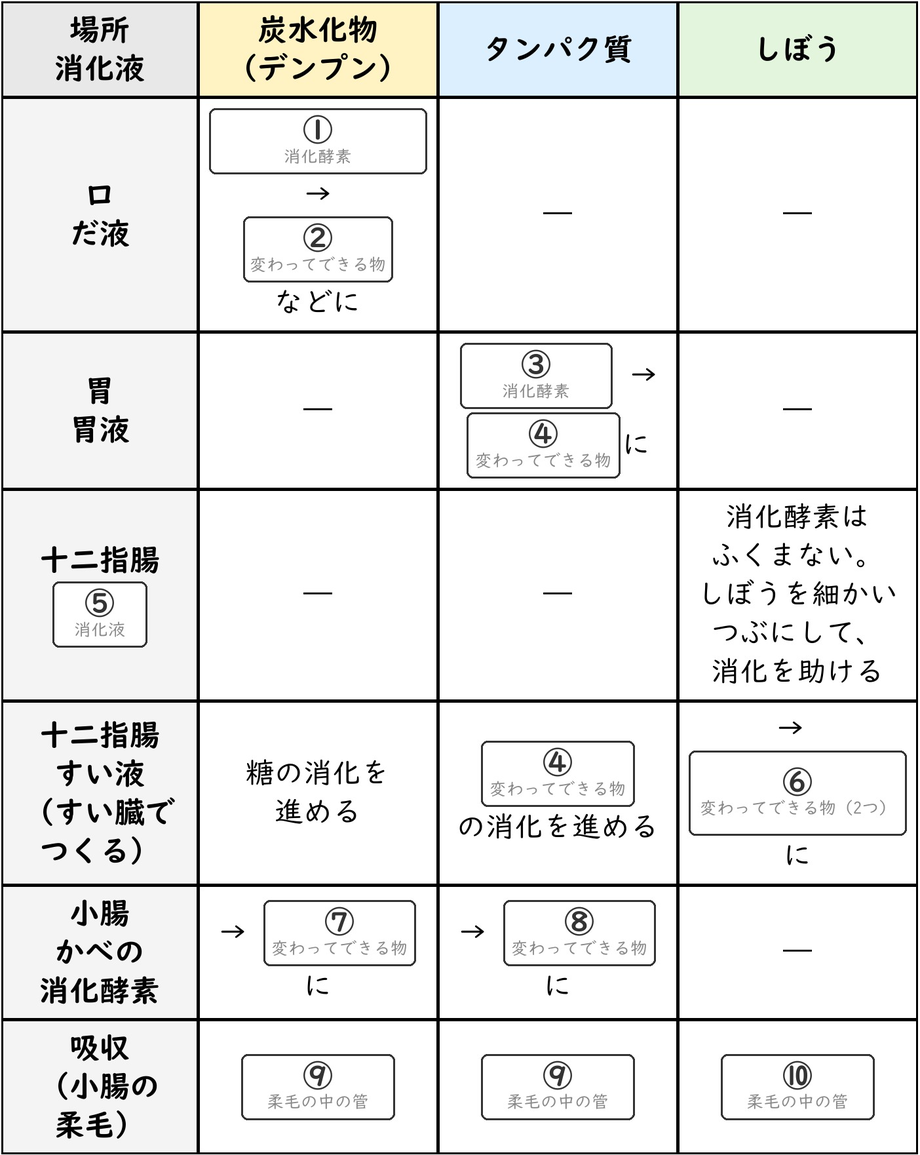
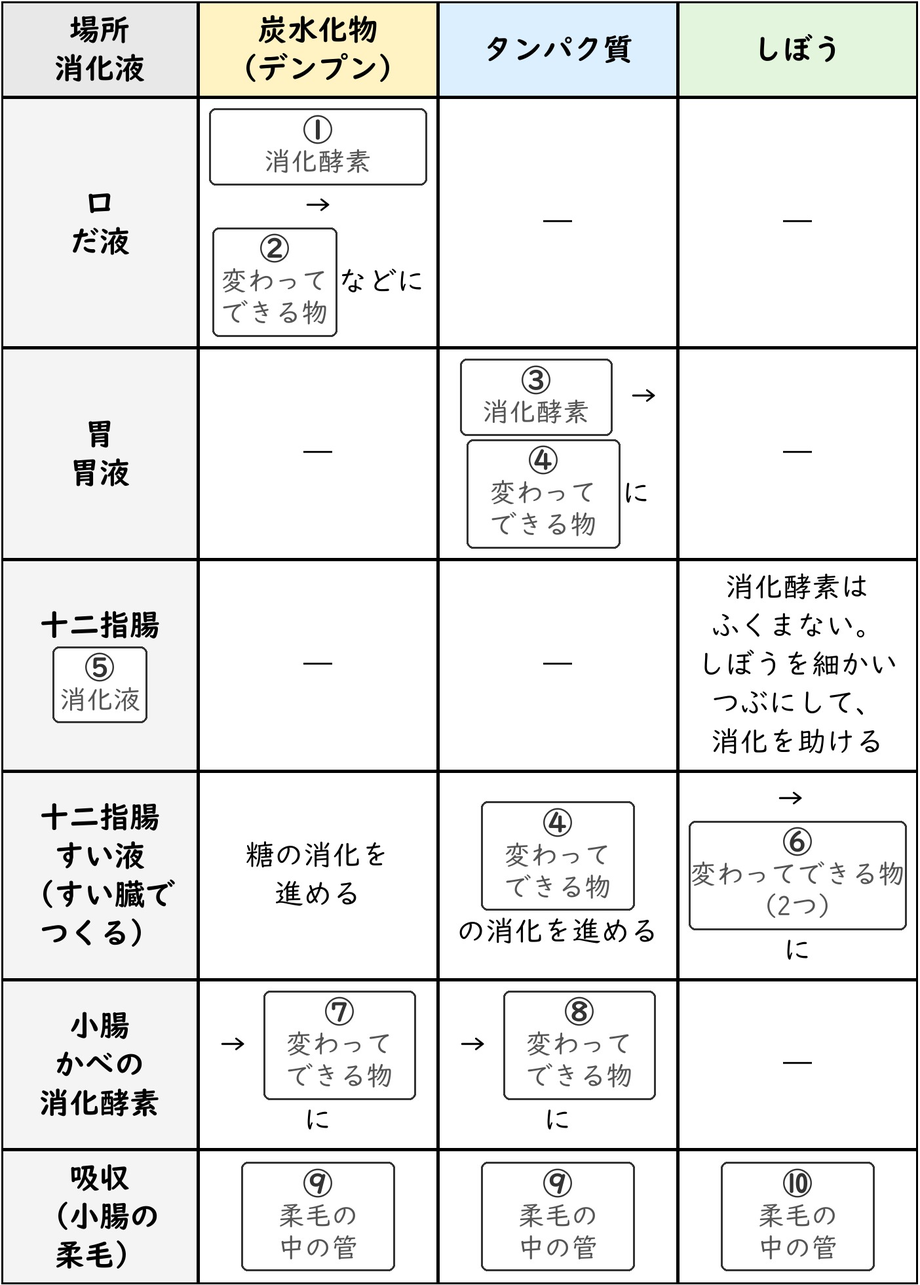
理科 第4回: 消化の表の画像を差し替え（ヒントを大きく・濃く）・IMG_SIZES 1404x1960
ユーザー「ヒントの文字が小さすぎます」への対応。data.js は変えていない。

diff --git a/index.html b/index.html
@@ -2469,7 +2469,7 @@ function startConnectTimeout(side){
 // images/内の各画像の実サイズ。<img>にwidth/height属性を設定することで、
 // 読み込み前でも正しい縦横比の分だけ表示スペースを確保でき、
 // 画像読み込み完了時のレイアウトのガタつき（＝それに伴うタップのすれ違い）を防ぐ。
-const IMG_SIZES = {"img_01.jpg":[581,620],"img_02.jpg":[627,579],"img_03.jpg":[714,417],"img_04.jpg":[514,483],"img_05.jpg":[644,532],"img_06.jpg":[463,429],"img_07.jpg":[1156,446],"img_08.jpg":[573,586],"img_09.jpg":[506,198],"img_10.jpg":[497,146],"img_11.jpg":[503,499],"img_12.jpg":[518,578],"img_13.jpg":[746,621],"img_14.jpg":[713,567],"img_15.jpg":[658,628],"img_16.png":[642,589],"img_17.png":[535,597],"img_18.png":[510,295],"img_19.png":[1399,307],"img_20.png":[448,714],"img_21.png":[648,595],"img_22.png":[244,234],"img_23.jpg":[346,355],"img_24.jpg":[209,263],"img_25.jpg":[228,244],"kai1_01.jpg":[374,356],"kai1_02.jpg":[348,339],"kai1_03.jpg":[492,339],"kai1_04.jpg":[352,340],"kai1_05.jpg":[357,340],"kai1_06.jpg":[261,340],"kai1_07.jpg":[461,340],"kai1_08.jpg":[444,340],"kai1_09.jpg":[357,340],"kai1_10.jpg":[601,340],"kai1_11.jpg":[635,340],"kai1_12.jpg":[2019,1084],"kai1_13.jpg":[516,490],"kai1_14.jpg":[560,254],"kai1_15.jpg":[595,324],"kai1_17.jpg":[2028,783],"kai1_18.jpg":[2019,1084],"kai1_20.jpg":[2019,1084],"kai1_21.jpg":[2019,1084],"kai1_22.jpg":[595,569],"kai1_23.jpg":[595,569],"kai1_24.jpg":[2019,1084],"kai1_25.jpg":[595,569],"kai1_26.jpg":[595,569],"kai1_27.jpg":[700,508],"kai1_28.jpg":[951,720],"kai1_29.jpg":[2240,1180],"kai1_30.jpg":[1181,1244],"kai2_01.jpg":[697,350],"kai2_02.jpg":[769,524],"kai2_03.jpg":[529,297],"kai2_04.jpg":[529,313],"kai2_05.jpg":[1216,2126],"kai3_01.jpg":[530,460],"kai3_02.jpg":[680,460],"kai3_03.jpg":[700,460],"kai3_04.jpg":[675,330],"kai3_05.jpg":[2408,1775],"kai3_06.jpg":[1988,1222],"kai3_07.jpg":[1189,2001],"kai4_01.jpg":[1189,1839],"kai5_01.jpg":[1189,1027],"kai5_02.jpg":[743,534],"kaki_r1_01.jpg":[761,180],"kaki_r1_02.jpg":[761,206],"kaki_r1_03.jpg":[796,180],"kaki_r1_04.jpg":[761,179],"kaki_r1_05.jpg":[796,206],"kaki_r1_06.jpg":[830,214],"kaki_r1_07.jpg":[890,624],"kaki_r1_08.jpg":[430,380],"kaki_r1_map01.jpg":[1170,1210],"kaki_r1_map02.jpg":[1170,1210],"kaki_r1_map03.jpg":[1170,1210],"kaki_r1_map04.jpg":[1170,1210],"kaki_r1_map05.jpg":[1170,1210],"kaki_r1_map06.jpg":[1170,1210],"kaki_r1_map07.jpg":[1170,1210],"kaki_r1_map08.jpg":[1170,1210],"kaki_r1_map09.jpg":[1170,1210],"kaki_r1_map10.jpg":[1170,1210],"kaki_r1_map11.jpg":[1170,1210],"kaki_r1_map12.jpg":[1170,1210],"kaki_r1_map13.jpg":[1170,1210],"kaki_r1_map14.jpg":[1170,1210],"kaki_r1_map15.jpg":[1170,1210],"kaki_r2_graph01.jpg":[1215,1340],"kaki_r2_graph02.jpg":[1295,850],"kaki_r2_graph03.jpg":[1265,680],"kaki_r2_graph04.jpg":[1225,320],"kaki_r2_graph06.jpg":[1045,560],"kaki_r2_graph07.jpg":[700,870],"kaki_r2_map01.jpg":[1140,1090],"kaki_r2_map05.jpg":[1035,900],"kaki_r2_map07.jpg":[2315,1650],"kaki_r2_map08.jpg":[2315,1650],"kaki_r2_map09.jpg":[2315,1650],"kaki_r2_map10.jpg":[2315,1650],"kaki_r2_map11.jpg":[2315,1650],"kaki_r2_map12.jpg":[2315,1650],"kaki_r2_map13.jpg":[2315,1650],"kaki_r2_map14.jpg":[2315,1650],"kaki_r2_map15.jpg":[2315,1650],"kaki_r2_map16.jpg":[2315,1650],"kaki_r2_map17.jpg":[2315,1650],"kaki_r2_map18.jpg":[2315,1650],"kaki_r2_map19.jpg":[2315,1650],"kaki_r3_graph01.jpg":[1015,580],"kaki_r3_house01.jpg":[505,355],"kaki_r3_map01.jpg":[2415,3414],"kaki_r3_map02.jpg":[2415,3414],"kaki_r3_map03.jpg":[2415,3414],"kaki_r3_map04.jpg":[2415,3414],"kaki_r3_map05.jpg":[2415,3414],"kaki_r3_map06.jpg":[2415,3414],"kaki_r3_map07.jpg":[2415,3414],"kaki_r3_map08.jpg":[2415,3414],"kaki_r3_map09.jpg":[2415,3414],"kaki_r3_map10.jpg":[2415,3414],"kaki_r3_map11.jpg":[2415,3414],"kaki_r3_map12.jpg":[2415,3414],"kaki_r3_map13.jpg":[2415,3414],"kaki_r3_map14.jpg":[2415,3414],"kaki_r3_map15.jpg":[2415,3414],"kaki_r3_map16.jpg":[2415,3414],"kaki_r3_map17.jpg":[2415,3414],"kaki_r3_map18.jpg":[2415,3414],"kaki_r3_map19.jpg":[2415,3414],"kaki_r3_map20.jpg":[2415,3414],"kaki_r3_map21.jpg":[2415,3414],"kaki_r3_map22.jpg":[2415,3414],"kaki_r3_map23.jpg":[2415,3417],"kaki_r3_map24.jpg":[2415,3417],"kaki_r3_map25.jpg":[2415,3417],"kaki_r3_map26.jpg":[2415,3417],"kaki_r3_map27.jpg":[2415,3417],"kaki_r3_map28.jpg":[2415,3417],"kaki_r3_map29.jpg":[2415,3417],"kaki_r3_map30.jpg":[2415,3417],"kaki_r3_map31.jpg":[2415,3417],"kaki_r3_map32.jpg":[2415,3417],"kaki_r3_map33.jpg":[2415,3417],"kaki_r3_map34.jpg":[2415,3417],"kaki_r3_map35.jpg":[2415,3417],"kaki_r3_map36.jpg":[2415,3417],"kaki_r3_map37.jpg":[1265,910],"kaki_r3_shapes.jpg":[2315,480],"kaki_r4_graph01.jpg":[910,300],"kaki_r4_graph02.jpg":[760,200],"kaki_r4_map01.jpg":[1610,980],"kaki_r4_map02.jpg":[1610,1380],"kaki_r4_map03.jpg":[540,570],"kaki_r4_map04.jpg":[1480,1310],"kaki_r4_map05.jpg":[1480,1310],"kaki_r4_map06.jpg":[1480,1310],"kaki_r4_map07.jpg":[1480,1310],"kaki_r4_map08.jpg":[1480,1310],"kaki_r4_map09.jpg":[1480,1310],"kaki_r4_map10.jpg":[1480,1310],"kaki_r4_map11.jpg":[1480,1310],"kaki_r4_map12.jpg":[1480,1310],"kaki_r4_map13.jpg":[1480,1310],"kaki_r4_map14.jpg":[1480,1310],"kaki_r4_map15.jpg":[1480,1310],"kaki_r4_map16.jpg":[1480,1310],"kaki_r4_map17.jpg":[1480,1310],"kaki_r4_map18.jpg":[1480,1310],"kaki_r4_map19.jpg":[1480,1310],"kaki_r4_map20.jpg":[1480,1310],"kaki_r4_map21.jpg":[1480,1310],"kaki_r4_map22.jpg":[1480,1310],"kaki_r4_map23.jpg":[1480,1310],"kaki_r4_map24.jpg":[1480,1310],"kaki_r4_map25.jpg":[1630,1440],"kaki_r4_map26.jpg":[1630,1440],"kaki_r4_map27.jpg":[1630,1440],"kaki_r4_map28.jpg":[1630,1440],"kaki_r4_map29.jpg":[1630,1440],"kaki_r4_map30.jpg":[1630,1440],"kaki_r4_map31.jpg":[1630,1440],"kaki_r4_map32.jpg":[1630,1440],"kaki_r4_map33.jpg":[1630,1440],"kaki_r4_map34.jpg":[1630,1440],"kaki_r4_map35.jpg":[1630,1440],"kaki_r4_map36.jpg":[1630,1440],"kaki_r4_map37.jpg":[1630,1440],"kaki_r4_map38.jpg":[1630,1440],"kaki_r4_map39.jpg":[1630,1440],"kaki_r4_map40.jpg":[1630,1440],"kaki_r4_map41.jpg":[1630,1440],"kaki_r4_shapes01.jpg":[1470,520],"kaki_r4_shapes02.jpg":[1970,870],"kaki_r5_graph02.jpg":[610,665],"kaki_r5_graph05.jpg":[2105,343],"kaki_r5_map01.jpg":[1540,1550],"kaki_r5_map02.jpg":[1540,1550],"kaki_r5_map03.jpg":[1540,1550],"kaki_r5_map04.jpg":[1540,1550],"kaki_r5_map05.jpg":[1540,1550],"kaki_r5_map06.jpg":[1540,1550],"kaki_r5_map07.jpg":[1540,1550],"kaki_r5_map08.jpg":[1540,1550],"kaki_r5_map09.jpg":[1540,1550],"kaki_r5_map10.jpg":[1540,1550],"kaki_r5_map11.jpg":[1540,1550],"kaki_r5_map12.jpg":[1540,1550],"kaki_r5_map13.jpg":[1540,1550],"kaki_r5_map14.jpg":[1540,1550],"kaki_r5_map15.jpg":[1540,1550],"kaki_r5_map16.jpg":[1540,1550],"kaki_r5_map17.jpg":[1540,1550],"kaki_r5_map18.jpg":[1540,1550],"kaki_r5_map19.jpg":[1700,1740],"kaki_r5_map20.jpg":[1700,1740],"kaki_r5_map21.jpg":[1700,1740],"kaki_r5_map22.jpg":[1700,1740],"kaki_r5_map23.jpg":[1700,1740],"kaki_r5_map24.jpg":[1700,1740],"kaki_r5_map25.jpg":[1700,1740],"kaki_r5_map26.jpg":[1700,1740],"kaki_r5_map27.jpg":[1700,1740],"kaki_r5_map28.jpg":[1700,1740],"kaki_r5_map29.jpg":[1700,1740],"kaki_r5_map30.jpg":[1700,1740],"kaki_r5_map31.jpg":[1700,1740],"kaki_r5_map32.jpg":[540,600],"kaki_r5_shapes02.jpg":[800,635],"kaki_r5_shapes03.jpg":[460,480],"kaki_r5_table01.jpg":[1370,390],"kaki_r5_table02.jpg":[1170,580],"kaki_r6_graph01.jpg":[850,1005],"kaki_r6_map01.jpg":[1500,1320],"kaki_r6_map02.jpg":[1500,1320],"kaki_r6_map03.jpg":[1500,1320],"kaki_r6_map04.jpg":[1500,1320],"kaki_r6_map05.jpg":[1500,1320],"kaki_r6_map06.jpg":[1500,1320],"kaki_r6_map07.jpg":[1500,1320],"kaki_r6_map08.jpg":[1500,1320],"kaki_r6_map09.jpg":[1500,1320],"kaki_r6_map10.jpg":[1500,1320],"kaki_r6_map11.jpg":[1500,1320],"kaki_r6_map12.jpg":[1500,1320],"kaki_r6_map13.jpg":[1500,1320],"kaki_r6_map14.jpg":[1500,1320],"kaki_r6_map15.jpg":[1500,1320],"kaki_r6_map16.jpg":[1500,1320],"kaki_r6_map17.jpg":[1500,1320],"kaki_r6_map18.jpg":[1500,1320],"kaki_r6_map19.jpg":[1500,1320],"kaki_r6_map20.jpg":[1500,1320],"kaki_r6_map21.jpg":[1500,1320],"kaki_r6_map22.jpg":[1500,1320],"kaki_r6_map23.jpg":[1500,1320],"kaki_r6_map24.jpg":[1500,1320],"kaki_r6_map25.jpg":[1500,1320],"kaki_r6_map26.jpg":[1500,1320],"kaki_r6_map27.jpg":[1500,1320],"kaki_r6_map28.jpg":[1420,1480],"kaki_r6_map29.jpg":[1420,1480],"kaki_r6_map30.jpg":[1420,1480],"kaki_r6_map31.jpg":[1420,1480],"kaki_r6_map32.jpg":[1420,1480],"kaki_r6_map33.jpg":[1420,1480],"kaki_r6_map34.jpg":[1420,1480],"kaki_r6_map35.jpg":[1420,1480],"kaki_r6_map36.jpg":[1420,1480],"kaki_r6_map37.jpg":[1420,1480],"kaki_r6_map38.jpg":[1420,1480],"kaki_r6_map39.jpg":[1420,1480],"kaki_r6_map40.jpg":[1420,1480],"kaki_r6_map41.jpg":[1420,1480],"kaki_r6_map42.jpg":[1420,1480],"kaki_r6_map43.jpg":[1420,1480],"kaki_r6_map44.jpg":[1420,1480],"kaki_r6_map45.jpg":[1420,1480],"kaki_r6_map46.jpg":[1420,1480],"kaki_r6_map47.jpg":[1420,1480],"kaki_r6_map48.jpg":[750,845],"kaki_r6_map49.jpg":[600,700],"kaki_r6_table01.jpg":[2010,445],"kaki_r7_graph02.jpg":[720,340],"kaki_r7_map01.jpg":[1840,1620],"kaki_r7_map02.jpg":[1840,1620],"kaki_r7_map03.jpg":[1840,1620],"kaki_r7_map04.jpg":[1840,1620],"kaki_r7_map05.jpg":[1840,1620],"kaki_r7_map06.jpg":[1840,1620],"kaki_r7_map07.jpg":[1840,1620],"kaki_r7_map08.jpg":[1840,1620],"kaki_r7_map09.jpg":[1840,1620],"kaki_r7_map10.jpg":[1840,1620],"kaki_r7_map11.jpg":[1840,1620],"kaki_r7_map12.jpg":[1840,1620],"kaki_r7_map13.jpg":[1840,1620],"kaki_r7_map14.jpg":[1840,1620],"kaki_r7_map15.jpg":[1840,1620],"kaki_r7_map16.jpg":[1840,1620],"kaki_r7_map17.jpg":[1840,1620],"kaki_r7_map18.jpg":[1500,1620],"kaki_r7_map19.jpg":[1500,1620],"kaki_r7_map20.jpg":[1500,1620],"kaki_r7_map21.jpg":[1500,1620],"kaki_r7_map22.jpg":[1500,1620],"kaki_r7_map23.jpg":[1500,1620],"kaki_r7_map24.jpg":[1500,1620],"kaki_r7_map25.jpg":[1500,1620],"kaki_r7_map26.jpg":[1500,1620],"kaki_r7_map27.jpg":[1500,1620],"kaki_r7_map28.jpg":[1500,1620],"kaki_r7_map29.jpg":[1500,1620],"kaki_r7_map30.jpg":[1500,1620],"kaki_r7_map31.jpg":[1500,1620],"kaki_r7_map32.jpg":[1500,1620],"kaki_r7_map33.jpg":[1500,1620],"kaki_r7_map34.jpg":[1500,1620],"kaki_r7_map35.jpg":[1500,1620],"kaki_r7_map36.jpg":[680,550],"kaki_r7_table01.jpg":[1100,420],"kaki_r7_table02.jpg":[1730,890],"kaki_r8_map01.jpg":[1220,1720],"kaki_r8_map02.jpg":[1220,1720],"kaki_r8_map03.jpg":[1220,1720],"kaki_r8_map04.jpg":[1220,1720],"kaki_r8_map05.jpg":[1220,1720],"kaki_r8_map06.jpg":[1220,1720],"kaki_r8_map07.jpg":[1220,1720],"kaki_r8_map08.jpg":[1220,1720],"kaki_r8_map09.jpg":[1220,1720],"kaki_r8_map10.jpg":[1220,1720],"kaki_r8_map11.jpg":[1220,1720],"kaki_r8_map12.jpg":[1220,1720],"kaki_r8_map13.jpg":[1220,1720],"kaki_r8_map14.jpg":[1220,1720],"kaki_r8_map15.jpg":[1220,1720],"kaki_r8_map16.jpg":[1220,1720],"kaki_r8_map17.jpg":[1220,1720],"kaki_r8_map18.jpg":[1220,1720],"kaki_r8_map19.jpg":[1220,1720],"kaki_r8_map20.jpg":[1220,1720],"kaki_r8_map21.jpg":[1220,1720],"kaki_r8_map22.jpg":[1220,1720],"kaki_r8_map23.jpg":[1220,1720],"kaki_r8_map24.jpg":[1220,1720],"kaki_r8_map25.jpg":[1220,1720],"kaki_r8_map26.jpg":[1220,1720],"kaki_r8_map27.jpg":[1220,1720],"kaki_r8_map28.jpg":[1220,1720],"kaki_r8_map29.jpg":[1220,1720],"kaki_r8_map30.jpg":[1220,1720],"kaki_r8_map31.jpg":[1220,1720],"kaki_r8_map32.jpg":[1220,1720],"kaki_r8_map33.jpg":[1220,1720],"kaki_r8_map34.jpg":[1220,1720],"kaki_r8_map35.jpg":[1870,1560],"kaki_r8_map36.jpg":[1870,1560],"kaki_r8_map37.jpg":[1870,1560],"kaki_r8_map38.jpg":[1870,1560],"kaki_r8_map39.jpg":[1870,1560],"kaki_r8_map40.jpg":[1870,1560],"kaki_r8_map41.jpg":[1870,1560],"kaki_r8_map42.jpg":[1870,1560],"kaki_r8_map43.jpg":[1870,1560],"kaki_r8_map44.jpg":[1870,1560],"kaki_r8_map45.jpg":[1870,1560],"kaki_r8_map46.jpg":[1870,1560],"kaki_r8_map47.jpg":[1870,1560],"kaki_r8_map48.jpg":[1870,1560],"kaki_r8_map49.jpg":[1870,1560],"kaki_r8_map50.jpg":[1870,1560],"kaki_r8_map51.jpg":[1870,1560],"kaki_r8_map52.jpg":[1870,1560],"kaki_r8_map53.jpg":[1870,1560],"kaki_r8_map54.jpg":[1870,1560],"kaki_r8_map55.jpg":[1870,1560],"kaki_r8_map56.jpg":[1870,1560],"kaki_r8_map57.jpg":[1870,1560],"kaki_r8_map58.jpg":[640,630],"r1_01.jpg":[2188,900],"r1_02.jpg":[1130,1070],"r1_03.jpg":[1660,400],"r1_04.jpg":[476,377],"r1_05.jpg":[1299,625],"r1_06.jpg":[950,360],"r2_01.jpg":[1400,673],"r2_02.jpg":[1400,365],"r2_03.jpg":[1400,346],"r2_04.jpg":[1400,997],"r2_05.jpg":[1400,692],"r2_06.jpg":[1392,600],"r2_07.jpg":[1392,623],"r2_08.jpg":[1392,701],"r2_09.jpg":[1419,823],"r2_10.jpg":[1419,823],"r2_11.jpg":[1419,823],"r2_12.jpg":[1419,956],"r2_13.jpg":[1419,956],"r2_14.jpg":[1419,956],"r2_15.jpg":[1400,946],"r2_16.jpg":[1400,946],"r2_17.jpg":[1400,946],"r2_18.jpg":[1400,883],"r2_19.jpg":[1400,883],"r2_20.jpg":[1427,1895],"r2_21.jpg":[1427,1895],"r2_22.jpg":[1427,1895],"r2_23.jpg":[1427,1895],"r2_24.jpg":[1427,1895],"r2_25.jpg":[1427,1895],"r2_26.jpg":[1410,1983],"r2_27.jpg":[1410,1983],"r2_28.jpg":[1410,1983],"r2_29.jpg":[1410,1983],"r2_30.jpg":[1419,946],"r2_31.jpg":[1419,946],"r2_32.jpg":[1419,946],"r2_33.jpg":[1419,946],"r2_34.jpg":[1419,538],"r2_35.jpg":[1419,538],"r2_36.jpg":[1419,538],"r2_37.jpg":[1419,538],"r2_38.jpg":[1419,546],"r2_39.jpg":[1401,913],"r2_40.jpg":[1401,1937],"r4_01.jpg":[880,1168],"r4_02.jpg":[1175,434],"r4_03.jpg":[759,1084],"r4_04.jpg":[1404,1762]};
+const IMG_SIZES = {"img_01.jpg":[581,620],"img_02.jpg":[627,579],"img_03.jpg":[714,417],"img_04.jpg":[514,483],"img_05.jpg":[644,532],"img_06.jpg":[463,429],"img_07.jpg":[1156,446],"img_08.jpg":[573,586],"img_09.jpg":[506,198],"img_10.jpg":[497,146],"img_11.jpg":[503,499],"img_12.jpg":[518,578],"img_13.jpg":[746,621],"img_14.jpg":[713,567],"img_15.jpg":[658,628],"img_16.png":[642,589],"img_17.png":[535,597],"img_18.png":[510,295],"img_19.png":[1399,307],"img_20.png":[448,714],"img_21.png":[648,595],"img_22.png":[244,234],"img_23.jpg":[346,355],"img_24.jpg":[209,263],"img_25.jpg":[228,244],"kai1_01.jpg":[374,356],"kai1_02.jpg":[348,339],"kai1_03.jpg":[492,339],"kai1_04.jpg":[352,340],"kai1_05.jpg":[357,340],"kai1_06.jpg":[261,340],"kai1_07.jpg":[461,340],"kai1_08.jpg":[444,340],"kai1_09.jpg":[357,340],"kai1_10.jpg":[601,340],"kai1_11.jpg":[635,340],"kai1_12.jpg":[2019,1084],"kai1_13.jpg":[516,490],"kai1_14.jpg":[560,254],"kai1_15.jpg":[595,324],"kai1_17.jpg":[2028,783],"kai1_18.jpg":[2019,1084],"kai1_20.jpg":[2019,1084],"kai1_21.jpg":[2019,1084],"kai1_22.jpg":[595,569],"kai1_23.jpg":[595,569],"kai1_24.jpg":[2019,1084],"kai1_25.jpg":[595,569],"kai1_26.jpg":[595,569],"kai1_27.jpg":[700,508],"kai1_28.jpg":[951,720],"kai1_29.jpg":[2240,1180],"kai1_30.jpg":[1181,1244],"kai2_01.jpg":[697,350],"kai2_02.jpg":[769,524],"kai2_03.jpg":[529,297],"kai2_04.jpg":[529,313],"kai2_05.jpg":[1216,2126],"kai3_01.jpg":[530,460],"kai3_02.jpg":[680,460],"kai3_03.jpg":[700,460],"kai3_04.jpg":[675,330],"kai3_05.jpg":[2408,1775],"kai3_06.jpg":[1988,1222],"kai3_07.jpg":[1189,2001],"kai4_01.jpg":[1189,1839],"kai5_01.jpg":[1189,1027],"kai5_02.jpg":[743,534],"kaki_r1_01.jpg":[761,180],"kaki_r1_02.jpg":[761,206],"kaki_r1_03.jpg":[796,180],"kaki_r1_04.jpg":[761,179],"kaki_r1_05.jpg":[796,206],"kaki_r1_06.jpg":[830,214],"kaki_r1_07.jpg":[890,624],"kaki_r1_08.jpg":[430,380],"kaki_r1_map01.jpg":[1170,1210],"kaki_r1_map02.jpg":[1170,1210],"kaki_r1_map03.jpg":[1170,1210],"kaki_r1_map04.jpg":[1170,1210],"kaki_r1_map05.jpg":[1170,1210],"kaki_r1_map06.jpg":[1170,1210],"kaki_r1_map07.jpg":[1170,1210],"kaki_r1_map08.jpg":[1170,1210],"kaki_r1_map09.jpg":[1170,1210],"kaki_r1_map10.jpg":[1170,1210],"kaki_r1_map11.jpg":[1170,1210],"kaki_r1_map12.jpg":[1170,1210],"kaki_r1_map13.jpg":[1170,1210],"kaki_r1_map14.jpg":[1170,1210],"kaki_r1_map15.jpg":[1170,1210],"kaki_r2_graph01.jpg":[1215,1340],"kaki_r2_graph02.jpg":[1295,850],"kaki_r2_graph03.jpg":[1265,680],"kaki_r2_graph04.jpg":[1225,320],"kaki_r2_graph06.jpg":[1045,560],"kaki_r2_graph07.jpg":[700,870],"kaki_r2_map01.jpg":[1140,1090],"kaki_r2_map05.jpg":[1035,900],"kaki_r2_map07.jpg":[2315,1650],"kaki_r2_map08.jpg":[2315,1650],"kaki_r2_map09.jpg":[2315,1650],"kaki_r2_map10.jpg":[2315,1650],"kaki_r2_map11.jpg":[2315,1650],"kaki_r2_map12.jpg":[2315,1650],"kaki_r2_map13.jpg":[2315,1650],"kaki_r2_map14.jpg":[2315,1650],"kaki_r2_map15.jpg":[2315,1650],"kaki_r2_map16.jpg":[2315,1650],"kaki_r2_map17.jpg":[2315,1650],"kaki_r2_map18.jpg":[2315,1650],"kaki_r2_map19.jpg":[2315,1650],"kaki_r3_graph01.jpg":[1015,580],"kaki_r3_house01.jpg":[505,355],"kaki_r3_map01.jpg":[2415,3414],"kaki_r3_map02.jpg":[2415,3414],"kaki_r3_map03.jpg":[2415,3414],"kaki_r3_map04.jpg":[2415,3414],"kaki_r3_map05.jpg":[2415,3414],"kaki_r3_map06.jpg":[2415,3414],"kaki_r3_map07.jpg":[2415,3414],"kaki_r3_map08.jpg":[2415,3414],"kaki_r3_map09.jpg":[2415,3414],"kaki_r3_map10.jpg":[2415,3414],"kaki_r3_map11.jpg":[2415,3414],"kaki_r3_map12.jpg":[2415,3414],"kaki_r3_map13.jpg":[2415,3414],"kaki_r3_map14.jpg":[2415,3414],"kaki_r3_map15.jpg":[2415,3414],"kaki_r3_map16.jpg":[2415,3414],"kaki_r3_map17.jpg":[2415,3414],"kaki_r3_map18.jpg":[2415,3414],"kaki_r3_map19.jpg":[2415,3414],"kaki_r3_map20.jpg":[2415,3414],"kaki_r3_map21.jpg":[2415,3414],"kaki_r3_map22.jpg":[2415,3414],"kaki_r3_map23.jpg":[2415,3417],"kaki_r3_map24.jpg":[2415,3417],"kaki_r3_map25.jpg":[2415,3417],"kaki_r3_map26.jpg":[2415,3417],"kaki_r3_map27.jpg":[2415,3417],"kaki_r3_map28.jpg":[2415,3417],"kaki_r3_map29.jpg":[2415,3417],"kaki_r3_map30.jpg":[2415,3417],"kaki_r3_map31.jpg":[2415,3417],"kaki_r3_map32.jpg":[2415,3417],"kaki_r3_map33.jpg":[2415,3417],"kaki_r3_map34.jpg":[2415,3417],"kaki_r3_map35.jpg":[2415,3417],"kaki_r3_map36.jpg":[2415,3417],"kaki_r3_map37.jpg":[1265,910],"kaki_r3_shapes.jpg":[2315,480],"kaki_r4_graph01.jpg":[910,300],"kaki_r4_graph02.jpg":[760,200],"kaki_r4_map01.jpg":[1610,980],"kaki_r4_map02.jpg":[1610,1380],"kaki_r4_map03.jpg":[540,570],"kaki_r4_map04.jpg":[1480,1310],"kaki_r4_map05.jpg":[1480,1310],"kaki_r4_map06.jpg":[1480,1310],"kaki_r4_map07.jpg":[1480,1310],"kaki_r4_map08.jpg":[1480,1310],"kaki_r4_map09.jpg":[1480,1310],"kaki_r4_map10.jpg":[1480,1310],"kaki_r4_map11.jpg":[1480,1310],"kaki_r4_map12.jpg":[1480,1310],"kaki_r4_map13.jpg":[1480,1310],"kaki_r4_map14.jpg":[1480,1310],"kaki_r4_map15.jpg":[1480,1310],"kaki_r4_map16.jpg":[1480,1310],"kaki_r4_map17.jpg":[1480,1310],"kaki_r4_map18.jpg":[1480,1310],"kaki_r4_map19.jpg":[1480,1310],"kaki_r4_map20.jpg":[1480,1310],"kaki_r4_map21.jpg":[1480,1310],"kaki_r4_map22.jpg":[1480,1310],"kaki_r4_map23.jpg":[1480,1310],"kaki_r4_map24.jpg":[1480,1310],"kaki_r4_map25.jpg":[1630,1440],"kaki_r4_map26.jpg":[1630,1440],"kaki_r4_map27.jpg":[1630,1440],"kaki_r4_map28.jpg":[1630,1440],"kaki_r4_map29.jpg":[1630,1440],"kaki_r4_map30.jpg":[1630,1440],"kaki_r4_map31.jpg":[1630,1440],"kaki_r4_map32.jpg":[1630,1440],"kaki_r4_map33.jpg":[1630,1440],"kaki_r4_map34.jpg":[1630,1440],"kaki_r4_map35.jpg":[1630,1440],"kaki_r4_map36.jpg":[1630,1440],"kaki_r4_map37.jpg":[1630,1440],"kaki_r4_map38.jpg":[1630,1440],"kaki_r4_map39.jpg":[1630,1440],"kaki_r4_map40.jpg":[1630,1440],"kaki_r4_map41.jpg":[1630,1440],"kaki_r4_shapes01.jpg":[1470,520],"kaki_r4_shapes02.jpg":[1970,870],"kaki_r5_graph02.jpg":[610,665],"kaki_r5_graph05.jpg":[2105,343],"kaki_r5_map01.jpg":[1540,1550],"kaki_r5_map02.jpg":[1540,1550],"kaki_r5_map03.jpg":[1540,1550],"kaki_r5_map04.jpg":[1540,1550],"kaki_r5_map05.jpg":[1540,1550],"kaki_r5_map06.jpg":[1540,1550],"kaki_r5_map07.jpg":[1540,1550],"kaki_r5_map08.jpg":[1540,1550],"kaki_r5_map09.jpg":[1540,1550],"kaki_r5_map10.jpg":[1540,1550],"kaki_r5_map11.jpg":[1540,1550],"kaki_r5_map12.jpg":[1540,1550],"kaki_r5_map13.jpg":[1540,1550],"kaki_r5_map14.jpg":[1540,1550],"kaki_r5_map15.jpg":[1540,1550],"kaki_r5_map16.jpg":[1540,1550],"kaki_r5_map17.jpg":[1540,1550],"kaki_r5_map18.jpg":[1540,1550],"kaki_r5_map19.jpg":[1700,1740],"kaki_r5_map20.jpg":[1700,1740],"kaki_r5_map21.jpg":[1700,1740],"kaki_r5_map22.jpg":[1700,1740],"kaki_r5_map23.jpg":[1700,1740],"kaki_r5_map24.jpg":[1700,1740],"kaki_r5_map25.jpg":[1700,1740],"kaki_r5_map26.jpg":[1700,1740],"kaki_r5_map27.jpg":[1700,1740],"kaki_r5_map28.jpg":[1700,1740],"kaki_r5_map29.jpg":[1700,1740],"kaki_r5_map30.jpg":[1700,1740],"kaki_r5_map31.jpg":[1700,1740],"kaki_r5_map32.jpg":[540,600],"kaki_r5_shapes02.jpg":[800,635],"kaki_r5_shapes03.jpg":[460,480],"kaki_r5_table01.jpg":[1370,390],"kaki_r5_table02.jpg":[1170,580],"kaki_r6_graph01.jpg":[850,1005],"kaki_r6_map01.jpg":[1500,1320],"kaki_r6_map02.jpg":[1500,1320],"kaki_r6_map03.jpg":[1500,1320],"kaki_r6_map04.jpg":[1500,1320],"kaki_r6_map05.jpg":[1500,1320],"kaki_r6_map06.jpg":[1500,1320],"kaki_r6_map07.jpg":[1500,1320],"kaki_r6_map08.jpg":[1500,1320],"kaki_r6_map09.jpg":[1500,1320],"kaki_r6_map10.jpg":[1500,1320],"kaki_r6_map11.jpg":[1500,1320],"kaki_r6_map12.jpg":[1500,1320],"kaki_r6_map13.jpg":[1500,1320],"kaki_r6_map14.jpg":[1500,1320],"kaki_r6_map15.jpg":[1500,1320],"kaki_r6_map16.jpg":[1500,1320],"kaki_r6_map17.jpg":[1500,1320],"kaki_r6_map18.jpg":[1500,1320],"kaki_r6_map19.jpg":[1500,1320],"kaki_r6_map20.jpg":[1500,1320],"kaki_r6_map21.jpg":[1500,1320],"kaki_r6_map22.jpg":[1500,1320],"kaki_r6_map23.jpg":[1500,1320],"kaki_r6_map24.jpg":[1500,1320],"kaki_r6_map25.jpg":[1500,1320],"kaki_r6_map26.jpg":[1500,1320],"kaki_r6_map27.jpg":[1500,1320],"kaki_r6_map28.jpg":[1420,1480],"kaki_r6_map29.jpg":[1420,1480],"kaki_r6_map30.jpg":[1420,1480],"kaki_r6_map31.jpg":[1420,1480],"kaki_r6_map32.jpg":[1420,1480],"kaki_r6_map33.jpg":[1420,1480],"kaki_r6_map34.jpg":[1420,1480],"kaki_r6_map35.jpg":[1420,1480],"kaki_r6_map36.jpg":[1420,1480],"kaki_r6_map37.jpg":[1420,1480],"kaki_r6_map38.jpg":[1420,1480],"kaki_r6_map39.jpg":[1420,1480],"kaki_r6_map40.jpg":[1420,1480],"kaki_r6_map41.jpg":[1420,1480],"kaki_r6_map42.jpg":[1420,1480],"kaki_r6_map43.jpg":[1420,1480],"kaki_r6_map44.jpg":[1420,1480],"kaki_r6_map45.jpg":[1420,1480],"kaki_r6_map46.jpg":[1420,1480],"kaki_r6_map47.jpg":[1420,1480],"kaki_r6_map48.jpg":[750,845],"kaki_r6_map49.jpg":[600,700],"kaki_r6_table01.jpg":[2010,445],"kaki_r7_graph02.jpg":[720,340],"kaki_r7_map01.jpg":[1840,1620],"kaki_r7_map02.jpg":[1840,1620],"kaki_r7_map03.jpg":[1840,1620],"kaki_r7_map04.jpg":[1840,1620],"kaki_r7_map05.jpg":[1840,1620],"kaki_r7_map06.jpg":[1840,1620],"kaki_r7_map07.jpg":[1840,1620],"kaki_r7_map08.jpg":[1840,1620],"kaki_r7_map09.jpg":[1840,1620],"kaki_r7_map10.jpg":[1840,1620],"kaki_r7_map11.jpg":[1840,1620],"kaki_r7_map12.jpg":[1840,1620],"kaki_r7_map13.jpg":[1840,1620],"kaki_r7_map14.jpg":[1840,1620],"kaki_r7_map15.jpg":[1840,1620],"kaki_r7_map16.jpg":[1840,1620],"kaki_r7_map17.jpg":[1840,1620],"kaki_r7_map18.jpg":[1500,1620],"kaki_r7_map19.jpg":[1500,1620],"kaki_r7_map20.jpg":[1500,1620],"kaki_r7_map21.jpg":[1500,1620],"kaki_r7_map22.jpg":[1500,1620],"kaki_r7_map23.jpg":[1500,1620],"kaki_r7_map24.jpg":[1500,1620],"kaki_r7_map25.jpg":[1500,1620],"kaki_r7_map26.jpg":[1500,1620],"kaki_r7_map27.jpg":[1500,1620],"kaki_r7_map28.jpg":[1500,1620],"kaki_r7_map29.jpg":[1500,1620],"kaki_r7_map30.jpg":[1500,1620],"kaki_r7_map31.jpg":[1500,1620],"kaki_r7_map32.jpg":[1500,1620],"kaki_r7_map33.jpg":[1500,1620],"kaki_r7_map34.jpg":[1500,1620],"kaki_r7_map35.jpg":[1500,1620],"kaki_r7_map36.jpg":[680,550],"kaki_r7_table01.jpg":[1100,420],"kaki_r7_table02.jpg":[1730,890],"kaki_r8_map01.jpg":[1220,1720],"kaki_r8_map02.jpg":[1220,1720],"kaki_r8_map03.jpg":[1220,1720],"kaki_r8_map04.jpg":[1220,1720],"kaki_r8_map05.jpg":[1220,1720],"kaki_r8_map06.jpg":[1220,1720],"kaki_r8_map07.jpg":[1220,1720],"kaki_r8_map08.jpg":[1220,1720],"kaki_r8_map09.jpg":[1220,1720],"kaki_r8_map10.jpg":[1220,1720],"kaki_r8_map11.jpg":[1220,1720],"kaki_r8_map12.jpg":[1220,1720],"kaki_r8_map13.jpg":[1220,1720],"kaki_r8_map14.jpg":[1220,1720],"kaki_r8_map15.jpg":[1220,1720],"kaki_r8_map16.jpg":[1220,1720],"kaki_r8_map17.jpg":[1220,1720],"kaki_r8_map18.jpg":[1220,1720],"kaki_r8_map19.jpg":[1220,1720],"kaki_r8_map20.jpg":[1220,1720],"kaki_r8_map21.jpg":[1220,1720],"kaki_r8_map22.jpg":[1220,1720],"kaki_r8_map23.jpg":[1220,1720],"kaki_r8_map24.jpg":[1220,1720],"kaki_r8_map25.jpg":[1220,1720],"kaki_r8_map26.jpg":[1220,1720],"kaki_r8_map27.jpg":[1220,1720],"kaki_r8_map28.jpg":[1220,1720],"kaki_r8_map29.jpg":[1220,1720],"kaki_r8_map30.jpg":[1220,1720],"kaki_r8_map31.jpg":[1220,1720],"kaki_r8_map32.jpg":[1220,1720],"kaki_r8_map33.jpg":[1220,1720],"kaki_r8_map34.jpg":[1220,1720],"kaki_r8_map35.jpg":[1870,1560],"kaki_r8_map36.jpg":[1870,1560],"kaki_r8_map37.jpg":[1870,1560],"kaki_r8_map38.jpg":[1870,1560],"kaki_r8_map39.jpg":[1870,1560],"kaki_r8_map40.jpg":[1870,1560],"kaki_r8_map41.jpg":[1870,1560],"kaki_r8_map42.jpg":[1870,1560],"kaki_r8_map43.jpg":[1870,1560],"kaki_r8_map44.jpg":[1870,1560],"kaki_r8_map45.jpg":[1870,1560],"kaki_r8_map46.jpg":[1870,1560],"kaki_r8_map47.jpg":[1870,1560],"kaki_r8_map48.jpg":[1870,1560],"kaki_r8_map49.jpg":[1870,1560],"kaki_r8_map50.jpg":[1870,1560],"kaki_r8_map51.jpg":[1870,1560],"kaki_r8_map52.jpg":[1870,1560],"kaki_r8_map53.jpg":[1870,1560],"kaki_r8_map54.jpg":[1870,1560],"kaki_r8_map55.jpg":[1870,1560],"kaki_r8_map56.jpg":[1870,1560],"kaki_r8_map57.jpg":[1870,1560],"kaki_r8_map58.jpg":[640,630],"r1_01.jpg":[2188,900],"r1_02.jpg":[1130,1070],"r1_03.jpg":[1660,400],"r1_04.jpg":[476,377],"r1_05.jpg":[1299,625],"r1_06.jpg":[950,360],"r2_01.jpg":[1400,673],"r2_02.jpg":[1400,365],"r2_03.jpg":[1400,346],"r2_04.jpg":[1400,997],"r2_05.jpg":[1400,692],"r2_06.jpg":[1392,600],"r2_07.jpg":[1392,623],"r2_08.jpg":[1392,701],"r2_09.jpg":[1419,823],"r2_10.jpg":[1419,823],"r2_11.jpg":[1419,823],"r2_12.jpg":[1419,956],"r2_13.jpg":[1419,956],"r2_14.jpg":[1419,956],"r2_15.jpg":[1400,946],"r2_16.jpg":[1400,946],"r2_17.jpg":[1400,946],"r2_18.jpg":[1400,883],"r2_19.jpg":[1400,883],"r2_20.jpg":[1427,1895],"r2_21.jpg":[1427,1895],"r2_22.jpg":[1427,1895],"r2_23.jpg":[1427,1895],"r2_24.jpg":[1427,1895],"r2_25.jpg":[1427,1895],"r2_26.jpg":[1410,1983],"r2_27.jpg":[1410,1983],"r2_28.jpg":[1410,1983],"r2_29.jpg":[1410,1983],"r2_30.jpg":[1419,946],"r2_31.jpg":[1419,946],"r2_32.jpg":[1419,946],"r2_33.jpg":[1419,946],"r2_34.jpg":[1419,538],"r2_35.jpg":[1419,538],"r2_36.jpg":[1419,538],"r2_37.jpg":[1419,538],"r2_38.jpg":[1419,546],"r2_39.jpg":[1401,913],"r2_40.jpg":[1401,1937],"r4_01.jpg":[880,1168],"r4_02.jpg":[1175,434],"r4_03.jpg":[759,1084],"r4_04.jpg":[1404,1960]};
 
 // 画像を差し替える際、幅・高さの属性も一緒に設定する（IMG_SIZESに無い画像はそのまま）
 // ---- 年表の空らんを赤丸で示す位置（画像の幅・高さに対する割合）----

diff --git a/作業メモ.md b/作業メモ.md
@@ -6,6 +6,15 @@
 
 - （いまは誰も作業していません）
 
+### ★2026-09-22 理科 第4回：消化の表の画像だけ差し替え（ヒントを大きく・濃く。ローカルコミットのみ・★**公開は承認待ち**）
+ユーザー「ヒントの文字が小さすぎます」→ 画像を作り直したもの（司令塔 [577495] 依頼）
+```
+images/r4_04.jpg sha256 23594db6…（331417B）一致 ／ JSON は eacb7c39… のまま
+IMG_SIZES r4_04 1404x1762 → ★1404x1960（sync_img_sizes --apply。ほかは不変） ／ data.js 差分 0
+検査 verify_data 問題なし / smoke 22 / list_meta_filter 21 / migration 22 / battle_start 17 / battle_resume 28
+```
+- 実機（390px）r4m80/85/89 出題3/3・JSエラー0。★ヒントが表の本文と同じ大きさで、拡大しなくても読める
+
 ### ★2026-09-22 理科 第4回：消化の表 r4m80〜r4m89 にヒントを入れた（`94b0417`・★**公開ずみ**。ユーザー承認は司令塔経由）
 依頼: `司令塔\回答\対戦アプリ_消化の表ヒント取り込み_依頼_2026-09-22.md`（司令塔 [577495]）
 ```
@@ -20,7 +29,7 @@ data.js 行: 10行の入れかえだけ ／ IMG_SIZES r4_04 1404x1583 → 1404x1
 - ⚠ **スマホ幅で灰色のヒントが小さい。読めるが拡大したくなる。**ユーザーには司令塔が伝えた。問題文にもヒントがあるので今回は直さず公開。読みにくければ、あとで絵を作り直す
 - **公開の確認（実物）**: 公開 data.js 1674問・r4m80〜89 の q 10件にヒントの語あり／公開 IMG_SIZES r4_04 = [1404,1762]／公開 images/r4_04.jpg の sha256 8539e10d… 一致
   （公開 data.js と手元の作業コピーは改行の違い（CRLF／LF）で cmp 不一致。コミットの中身との比較は、自動許可の判定で止められたので未実施）
-- ⚠ この作業メモの追記は**ローカルのみ・未コミット**（push 後の操作が自動許可の判定で止められたため）
+- この作業メモの追記はローカルコミット `9fa1be3`（push は次の公開で一緒に）
 
 ### ★2026-09-22 ★最優先の並び方を直した（`9edcee7`・★**公開ずみ**）— ★**下の 4903e74 の記録の「特別扱いしない」は誤り**
 ユーザー訂正（司令塔の読み違いを直したもの）:「出題順の一番頭に」「未クリアのみを押したら、最優先で未クリアなものは一番上」
